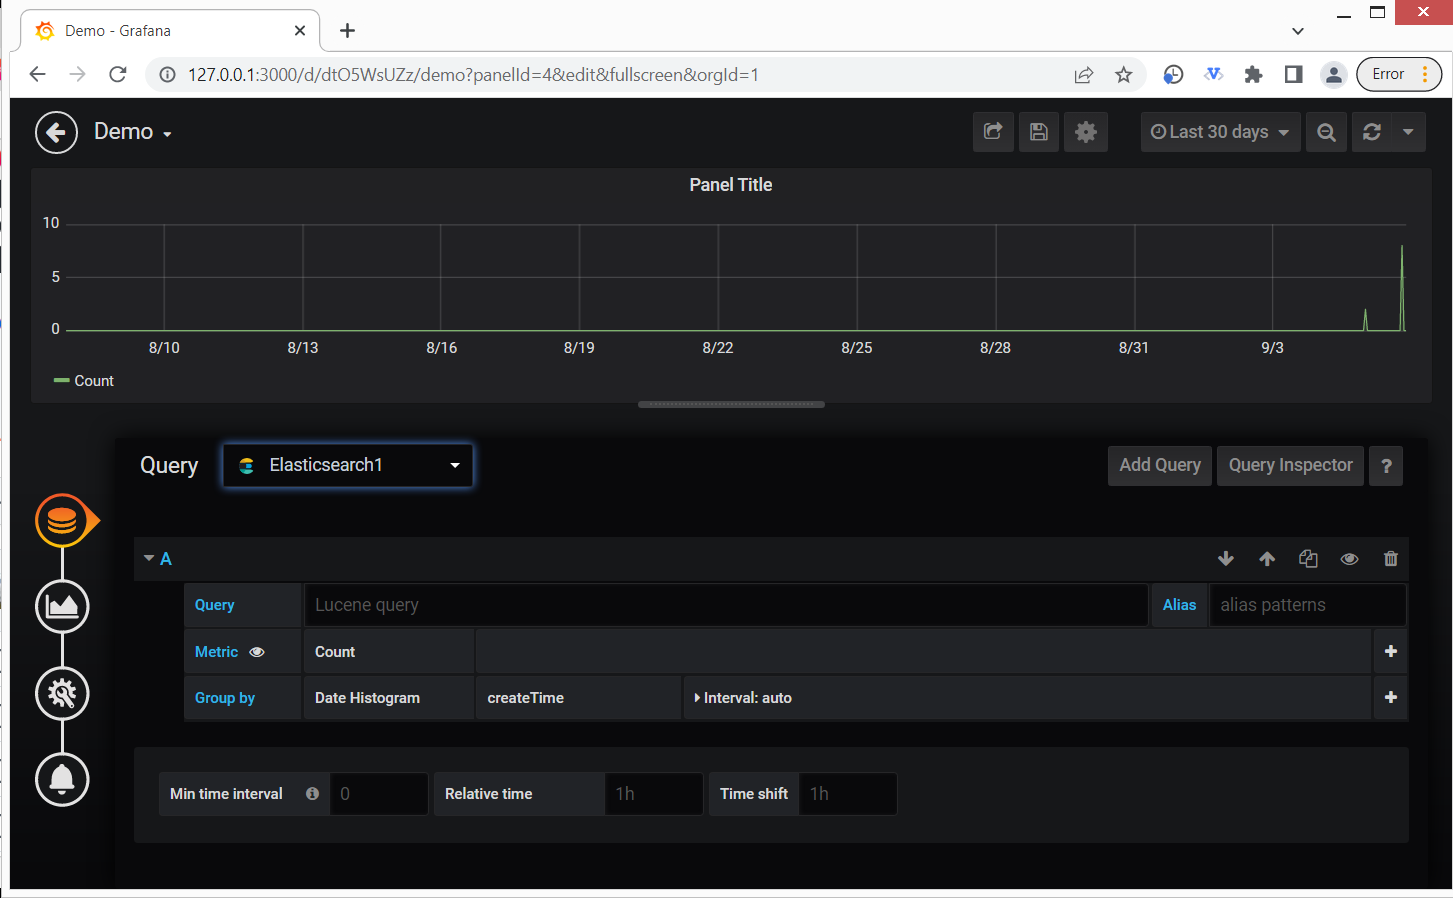
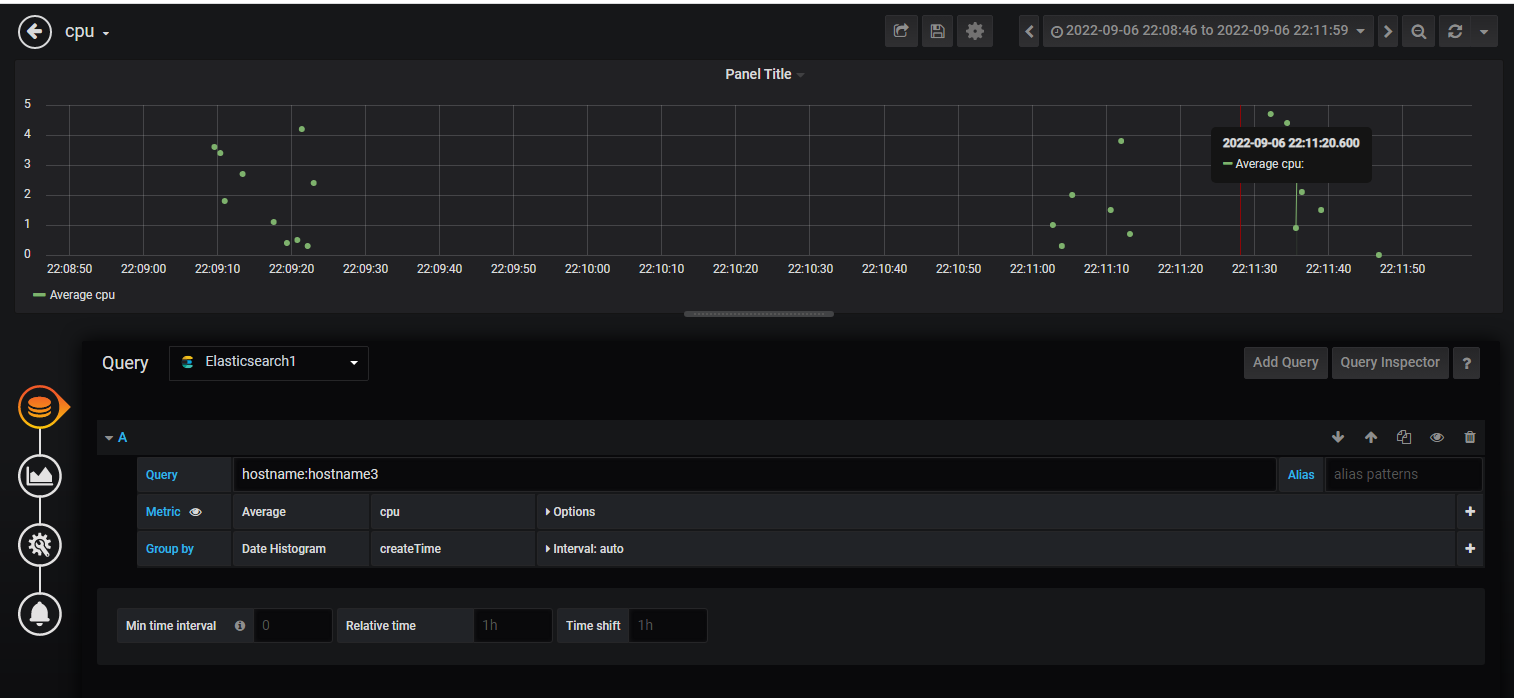
intermediate revision - chaged  index to use keywords and values

diff --git a/basic-elasticrsearch-timeseries/src/main/java/example/entity/DemoEntity.java b/basic-elasticrsearch-timeseries/src/main/java/example/entity/DemoEntity.java
@@ -2,25 +2,72 @@ package example.entity;
 
 import java.util.Date;
 
+// import javax.persistence.Column;
 public class DemoEntity {
-	private String id;
-	private String name;
+	private String environment;
+	private String dc;
 	private Date createTime;
+	private String hostname;
+	private String appId;
+	private float cpu;
+	private float memory;
 
-	public String getId() {
-		return id;
+	public float getCpu() {
+		return cpu;
 	}
 
-	public void setId(String value) {
-		id = value;
+	public void setCpu(float value) {
+		cpu = value;
 	}
 
-	public String getName() {
-		return name;
+	public float getMemory() {
+		return memory;
 	}
 
-	public void setName(String value) {
-		name = value;
+	public void setMemory(float value) {
+		memory = value;
+	}
+
+	// @Id
+	// @GeneratedValue(strategy = GenerationType.AUTO)
+	// @Column(name = "dc")
+	public String getDc() {
+		return dc;
+	}
+
+	public void setDc(String value) {
+		dc = value;
+	}
+
+	// @Id
+	// @GeneratedValue(strategy = GenerationType.AUTO)
+	// @Column(name = "environment")
+	public String getEnvironment() {
+		return environment;
+	}
+
+	public void setEnvironment(String value) {
+		environment = value;
+	}
+
+	// @Id
+	// @GeneratedValue(strategy = GenerationType.AUTO)
+	// @Column(name = "appid")
+	public String getAppId() {
+		return appId;
+	}
+
+	public void setAppId(String value) {
+		appId = value;
+	}
+
+	// @Column(name = "hostname", nullable = false, length = 10)
+	public String getHostname() {
+		return hostname;
+	}
+
+	public void setHostname(String value) {
+		hostname = value;
 	}
 
 	public Date getCreateTime() {
@@ -30,4 +77,17 @@ public class DemoEntity {
 	public void setCreateTime(Date value) {
 		createTime = value;
 	}
+
+	// TODO: add ip. can use Java InetAddress class
+	// String pattern="([0-9]*\.){3}[0-9]*";
+	// try {
+	// InetAddress address = InetAddress.getByName(ip);
+	// if (address instanceof Inet6Address) {
+	//
+	// } else if (address instanceof Inet4Address) {
+	// }
+	// } catch(UnknownHostException e) {
+	// }
+	// see also:
+	// https://github.com/HKShuttle/IPAddressCalculator/blob/master/src/IPv4.java
 }

diff --git a/basic-elasticrsearch-timeseries/src/main/java/example/controller/ESController.java b/basic-elasticrsearch-timeseries/src/main/java/example/controller/ESController.java
@@ -18,13 +18,21 @@ public class ESController {
 	private ESService esService;
 
 	private static final String MYINDEX = "my_index_test";
+	private Random generator = new Random(3);
 
 	@ResponseBody
 	@RequestMapping("/insert")
 	public String insert() {
 		DemoEntity entity = new DemoEntity();
-		entity.setId(UUID.randomUUID().toString());
-		entity.setName("Obj-" + new Random(10).nextInt(20));
+		final String dc = "west";
+		final String hostname = "hostname" + generator.nextInt(10);
+		final String appId = "app" + generator.nextInt(10);
+		entity.setDc(dc);
+		entity.setHostname(hostname);
+		entity.setAppId(appId);
+		// entity.setAppId(UUID.randomUUID().toString());
+		entity.setHostname(hostname);
+		entity.setCpu((float) (0.1 * (float) (generator.nextInt(50))));
 		entity.setCreateTime(new Date());
 		try {
 			return esService.save(entity, MYINDEX) ? "SUCCESS" : "FAIL";
@@ -38,8 +46,14 @@ public class ESController {
 	@RequestMapping("/query")
 	public Object query() {
 		try {
-			List<Map<String, Object>> list = esService.query(MYINDEX, 1, 3, null,
-					"desc");
+
+			final String index = MYINDEX;
+			final int page = 1;
+			final int limit = 100;
+			final String name = null;
+			final String order = "desc";
+			List<Map<String, Object>> list = esService.query(index, page, limit, name,
+					order);
 			return list;
 		} catch (IOException e) {
 			e.printStackTrace();

diff --git a/basic-elasticrsearch-timeseries/README.md b/basic-elasticrsearch-timeseries/README.md
@@ -242,35 +242,133 @@ elasticsearch.yml                             100% 2853   392.3KB/s   00:00
 ```
 initialiazize the schema
 ```sh
+curl -H "Content-Type: application/json" -XDELETE 'http://192.168.0.138:9200/_template/my_index_test_template' 
+```
+NOTE: the URL appears to be different with later versions of ElasticSearch
+```sh
 curl -H "Content-Type: application/json" -XPUT "http://192.168.0.138:9200/_template/my_index_test_template" -d '{
   "template": "my_index_test*",
   "settings": {
+  "analysis": {
+      "analyzer": {
+        "default": {
+          "type": "keyword"
+        }
+      }
+    },
     "number_of_shards": 3,
     "number_of_replicas": 0
   },
   "mappings": {
-        "properties": {
-            "createTime": {
-                "type": "date",
-                "format": "yyyy-MM-dd HH:mm:ss || yyyy-MM-dd || yyyy/MM/dd HH:mm:ss|| yyyy/MM/dd ||epoch_millis"
-            },
-            "id": {
-                "type": "keyword"
-            },
-            "name": {
-                "type": "keyword"
-            }
-        }
-    },
-  "aliases": {"my_index_test_alias":{}}
-}'
+    "properties": {
+      "createTime": {
+        "type": "date",
+        "format": "yyyy-MM-dd HH:mm:ss || yyyy-MM-dd || yyyy/MM/dd HH:mm:ss|| yyyy/MM/dd ||epoch_millis"
+      },
+      "cpu": {
+        "type": "float"
+      },
+      "memory": {
+        "type": "float"
+      },
+      "disk": {
+        "type": "float"
+      },
+      "load_average": {
+        "type": "float"
+      },
+      "rpm": {
+        "type": "integer"
+      },
+      "uptime": {
+        "type": "float"
+      },
+      "hostname": {
+        "type": "keyword"
+      },
+      "environment": {
+        "type": "keyword"
+      },
+      "dc": {
+        "type": "keyword"
+      },
+      "appid": {
+        "type": "keyword"
+      }
+    }
+  },
+  "aliases": {
+    "my_index_test_alias": {}
+  }
+}
+'
 ```
 
+will respond with
 ```json
 {"acknowledged":true}
 ```
 
+
+Note: error when specifying the analyzer incorrectly:
+```json
+  "settings": {
+    "analysis": {
+      "analyzer": {
+        "type": "keyword_analyzer"
+      }
+    },
+```
+getting error:
+```json
+{
+  "error": {
+    "root_cause": [
+      {
+        "type": "settings_exception",
+        "reason": "Failed to get setting group for [index.analysis.analyzer.] setting prefix and setting [index.analysis.analyzer.type] because of a missing '.'"
+      }
+    ],
+    "type": "settings_exception",
+    "reason": "Failed to get setting group for [index.analysis.analyzer.] setting prefix and setting [index.analysis.analyzer.type] because of a missing '.'"
+  },
+  "status": 500
+}
+
+```
+- see also [Default keyword analyzer](https://discuss.elastic.co/t/default-keyword-analyzer-not-work/293194)
+See [schema reference](https://www.elastic.co/guide/en/elasticsearch/reference/7.17/number.html) for available metric types
+
+
+Note: "_all" is no longer needs to be disabled - specifying:
+```json
+  "_all": {
+    "enabled": false
+  },
+
+
+```
+leads to error
+```json
+{
+  "error": {
+    "root_cause": [
+      {
+        "type": "illegal_argument_exception",
+        "reason": "unknown setting [index._all.enabled] did you mean [index.warmer.enabled]?"
+      }
+    ],
+    "type": "illegal_argument_exception",
+    "reason": "unknown setting [index._all.enabled] did you mean [index.warmer.enabled]?"
+  },
+  "status": 400
+}
+
+```
+acknowledge the index removal in Kibana `http://192.168.0.138:5601/app/kibana#/management/elasticsearch/index_management/indices?_g=()`
+
 ### Working with ElasticSearch from Java client
+
 *  run the app
 
 ```sh
@@ -278,6 +376,7 @@ mvn spring-boot:run
 ```
 
 * in the browser, or console, perform requests
+
 NOTE: if the `query` is run before
 `http://localhost:8844/query`
 
@@ -308,6 +407,11 @@ date +"%s"
 ```text
 1662353482
 ```
+The index will be available in Kibana Management panel `http://192.168.0.138:5601/app/kibana#/management/elasticsearch/index_management/indices?_g=()`.
+
+* observe data in Grafana
+
+![Grafana Example](https://github.com/sergueik/springboot_study/blob/master/basic-elasticrsearch-timeseries/screenshots/capture-grafana-elasticsearch-panel.png)
 
 ### Note Using Bitnami ElasticSearch VM 
 You may need to re-import the image ova when migrating the project to different host
@@ -341,7 +445,8 @@ may switch to use [Vagrantfile](https://github.com/sergueik/puppetmaster_vagrant
   
   * https://github.com/djoven89/vagrant_monitoring_stack
 is another alternative  adding grafana `https://packagecloud.io/grafana/stable/debian` repo public key and installing it on vanilla `ubuntu/xenial64`. We need Grafana __6.6.1__ to work with ElasticSearch __7.6.2__
-  
+
+ * https://www.lucenetutorial.com/lucene-query-syntax.html  
 
 ### Author
 [Serguei Kouzmine](kouzmine_serguei@yahoo.com)
